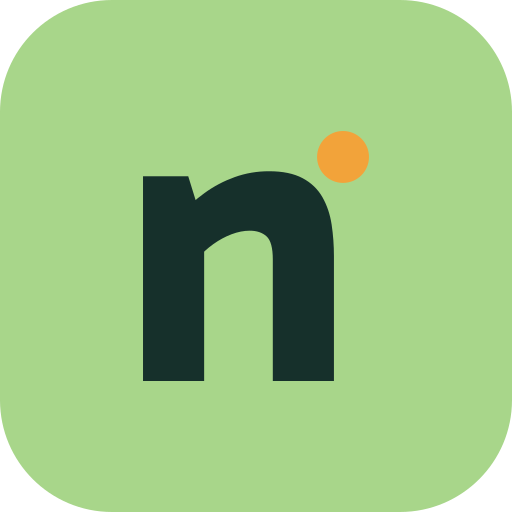
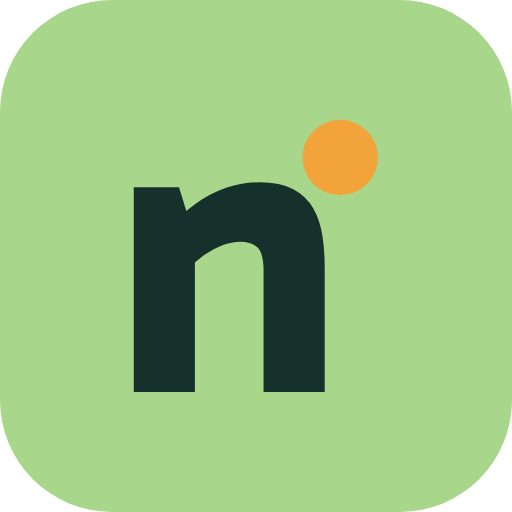
v23: sistema gráfico unificado (Dúo v2, mapa con la marca, punto flotante, isotipo B)

Changed region(s): [[0.4062, 0.2188, 0.75, 0.7812], [0.25, 0.3438, 0.4062, 0.7812]]

diff --git a/js/brand.js b/js/brand.js
@@ -1,8 +1,8 @@
-/* Marca Nubi (dirección C, Gabarito 700). Generado por design/nubi/tools/export-app.cjs: no editar a mano.
+/* Marca Nubi: Dúo, la mascota oficial (v2, 2026-11-25). GENERADO por tools/marca/generar-duo.mjs: no editar a mano.
    Los colores salen de variables CSS (--nb-*), así que sirve para tema claro y oscuro. */
 (function () {
   'use strict';
   window.Cerca = window.Cerca || {};
-  var M = {"feliz":"<svg xmlns=\"http://www.w3.org/2000/svg\" viewBox=\"0 0 200 200\" focusable=\"false\"><g transform=\"translate(0 0) rotate(0 96 112) translate(96 112) scale(1 1) translate(-96 -112)\"><circle cx=\"96\" cy=\"112\" r=\"64\" style=\"fill:var(--nb-body)\"/><circle cx=\"152\" cy=\"54\" r=\"28\" style=\"fill:var(--nb-lobe)\"/><circle cx=\"70\" cy=\"114\" r=\"7\" style=\"fill:var(--nb-face)\"/><circle cx=\"118\" cy=\"114\" r=\"7\" style=\"fill:var(--nb-face)\"/><path d=\"M82 137Q94 148.4 106 137\" fill=\"none\" stroke-width=\"4.2\" stroke-linecap=\"round\" style=\"stroke:var(--nb-face)\"/></g></svg>","curiosa":"<svg xmlns=\"http://www.w3.org/2000/svg\" viewBox=\"0 0 200 200\" focusable=\"false\"><g transform=\"translate(0 0) rotate(7 96 112) translate(96 112) scale(1 1) translate(-96 -112)\"><circle cx=\"96\" cy=\"112\" r=\"64\" style=\"fill:var(--nb-body)\"/><circle cx=\"152\" cy=\"54\" r=\"28\" style=\"fill:var(--nb-lobe)\"/><circle cx=\"73\" cy=\"111\" r=\"7\" style=\"fill:var(--nb-face)\"/><circle cx=\"121\" cy=\"111\" r=\"9.1\" style=\"fill:var(--nb-face)\"/><ellipse cx=\"99\" cy=\"138\" rx=\"3.84\" ry=\"5.04\" style=\"fill:var(--nb-face)\"/></g></svg>","pensando":"<svg xmlns=\"http://www.w3.org/2000/svg\" viewBox=\"0 0 200 200\" focusable=\"false\"><g transform=\"translate(0 0) rotate(-5 96 112) translate(96 112) scale(1 1) translate(-96 -112)\"><circle cx=\"96\" cy=\"112\" r=\"64\" style=\"fill:var(--nb-body)\"/><circle cx=\"152\" cy=\"54\" r=\"28\" style=\"fill:var(--nb-lobe)\"/><circle cx=\"67\" cy=\"110\" r=\"7\" style=\"fill:var(--nb-face)\"/><circle cx=\"115\" cy=\"110\" r=\"7\" style=\"fill:var(--nb-face)\"/><path d=\"M81.6 137H98.4\" stroke-width=\"4.2\" stroke-linecap=\"round\" style=\"stroke:var(--nb-face)\"/></g><circle cx=\"38\" cy=\"58\" r=\"4\" style=\"fill:var(--nb-muted)\"/><circle cx=\"50\" cy=\"46\" r=\"5.6\" style=\"fill:var(--nb-muted)\"/><circle cx=\"64\" cy=\"32\" r=\"7.5\" style=\"fill:var(--nb-muted)\"/></svg>","sorprendida":"<svg xmlns=\"http://www.w3.org/2000/svg\" viewBox=\"0 0 200 200\" focusable=\"false\"><g transform=\"translate(0 -4) rotate(0 96 112) translate(96 112) scale(1 1) translate(-96 -112)\"><circle cx=\"96\" cy=\"112\" r=\"64\" style=\"fill:var(--nb-body)\"/><circle cx=\"152\" cy=\"54\" r=\"28\" style=\"fill:var(--nb-lobe)\"/><circle cx=\"70\" cy=\"113\" r=\"9.450000000000001\" style=\"fill:var(--nb-face)\"/><circle cx=\"118\" cy=\"113\" r=\"9.450000000000001\" style=\"fill:var(--nb-face)\"/><ellipse cx=\"94\" cy=\"139\" rx=\"5.1\" ry=\"6\" style=\"fill:var(--nb-face)\"/></g></svg>","celebrando":"<svg xmlns=\"http://www.w3.org/2000/svg\" viewBox=\"0 0 200 200\" focusable=\"false\"><g transform=\"translate(0 -3) rotate(0 96 112) translate(96 112) scale(1 1) translate(-96 -112)\"><circle cx=\"96\" cy=\"112\" r=\"64\" style=\"fill:var(--nb-body)\"/><circle cx=\"152\" cy=\"54\" r=\"28\" style=\"fill:var(--nb-lobe)\"/><path d=\"M61.25 117.9375Q70 105.25 78.75 117.9375\" fill=\"none\" stroke-width=\"4.2\" stroke-linecap=\"round\" style=\"stroke:var(--nb-face)\"/><path d=\"M109.25 117.9375Q118 105.25 126.75 117.9375\" fill=\"none\" stroke-width=\"4.2\" stroke-linecap=\"round\" style=\"stroke:var(--nb-face)\"/><path d=\"M82 135Q94 157.4 106 135Z\" stroke-width=\"2\" stroke-linejoin=\"round\" style=\"fill:var(--nb-face);stroke:var(--nb-face)\"/></g><circle cx=\"28\" cy=\"48\" r=\"6\" style=\"fill:var(--nb-lobe)\"/><rect x=\"48\" y=\"32\" rx=\"3\" transform=\"rotate(20 54 38)\" style=\"fill:var(--nb-rose)\"/><circle cx=\"66\" cy=\"54\" r=\"5\" style=\"fill:var(--nb-sky)\"/></svg>","triste":"<svg xmlns=\"http://www.w3.org/2000/svg\" viewBox=\"0 0 200 200\" focusable=\"false\"><g transform=\"translate(0 4) rotate(-5 96 112) translate(96 112) scale(1 1) translate(-96 -112)\"><circle cx=\"96\" cy=\"112\" r=\"64\" style=\"fill:var(--nb-body)\"/><circle cx=\"152\" cy=\"54\" r=\"28\" style=\"fill:var(--nb-lobe)\"/><circle cx=\"70\" cy=\"116\" r=\"7\" style=\"fill:var(--nb-face)\"/><circle cx=\"118\" cy=\"116\" r=\"7\" style=\"fill:var(--nb-face)\"/><path d=\"M82 143Q94 131.6 106 143\" fill=\"none\" stroke-width=\"4.2\" stroke-linecap=\"round\" style=\"stroke:var(--nb-face)\"/></g></svg>","descansando":"<svg xmlns=\"http://www.w3.org/2000/svg\" viewBox=\"0 0 200 200\" focusable=\"false\"><g transform=\"translate(0 5) rotate(0 96 112) translate(96 112) scale(1 0.95) translate(-96 -112)\"><circle cx=\"96\" cy=\"112\" r=\"64\" style=\"fill:var(--nb-body)\"/><circle cx=\"152\" cy=\"54\" r=\"28\" style=\"fill:var(--nb-lobe)\"/><path d=\"M61.25 113.6875Q70 122 78.75 113.6875\" fill=\"none\" stroke-width=\"4.2\" stroke-linecap=\"round\" style=\"stroke:var(--nb-face)\"/><path d=\"M109.25 113.6875Q118 122 126.75 113.6875\" fill=\"none\" stroke-width=\"4.2\" stroke-linecap=\"round\" style=\"stroke:var(--nb-face)\"/><path d=\"M87.4 136Q94 142.27 100.6 136\" fill=\"none\" stroke-width=\"4.2\" stroke-linecap=\"round\" style=\"stroke:var(--nb-face)\"/></g><g fill=\"none\" stroke-width=\"3.6\" stroke-linecap=\"round\" stroke-linejoin=\"round\" style=\"stroke:var(--nb-muted)\"><path d=\"M36 52h12l-12 12h12\"/><path d=\"M58 34h9l-9 9h9\"/></g></svg>"};
+  var M = {"feliz":"<svg xmlns=\"http://www.w3.org/2000/svg\" viewBox=\"0 0 200 200\" focusable=\"false\"><g transform=\"translate(0 0) rotate(0 96 112)\"><circle cx=\"96\" cy=\"112\" r=\"64\" style=\"fill:var(--nb-body)\"/><circle cx=\"70\" cy=\"114\" r=\"7\" style=\"fill:var(--nb-face)\"/><circle cx=\"118\" cy=\"114\" r=\"7\" style=\"fill:var(--nb-face)\"/><path d=\"M82 137Q94 148.4 106 137\" fill=\"none\" stroke-width=\"4.2\" stroke-linecap=\"round\" style=\"stroke:var(--nb-face)\"/><g style=\"fill:var(--nb-rose)\" opacity=\"0.44\"><ellipse cx=\"58\" cy=\"130\" rx=\"9\" ry=\"5.5\"/><ellipse cx=\"130\" cy=\"130\" rx=\"9\" ry=\"5.5\"/></g></g><circle cx=\"152\" cy=\"54\" r=\"28\" style=\"fill:var(--nb-lobe)\"/><ellipse cx=\"143\" cy=\"44\" rx=\"8\" ry=\"5\" transform=\"rotate(-30 143 44)\" fill=\"#FFFFFF\" opacity=\".35\"/></svg>","curiosa":"<svg xmlns=\"http://www.w3.org/2000/svg\" viewBox=\"0 0 200 200\" focusable=\"false\"><g transform=\"translate(0 0) rotate(7 96 112)\"><circle cx=\"96\" cy=\"112\" r=\"64\" style=\"fill:var(--nb-body)\"/><circle cx=\"73\" cy=\"111\" r=\"7\" style=\"fill:var(--nb-face)\"/><circle cx=\"121\" cy=\"111\" r=\"8.6\" style=\"fill:var(--nb-face)\"/><ellipse cx=\"99\" cy=\"138\" rx=\"3.6\" ry=\"4.6\" style=\"fill:var(--nb-face)\"/><g style=\"fill:var(--nb-rose)\" opacity=\"0.28\"><ellipse cx=\"58\" cy=\"130\" rx=\"9\" ry=\"5.5\"/><ellipse cx=\"130\" cy=\"130\" rx=\"9\" ry=\"5.5\"/></g></g><circle cx=\"152\" cy=\"54\" r=\"28\" style=\"fill:var(--nb-lobe)\"/><ellipse cx=\"143\" cy=\"44\" rx=\"8\" ry=\"5\" transform=\"rotate(-30 143 44)\" fill=\"#FFFFFF\" opacity=\".35\"/></svg>","pensando":"<svg xmlns=\"http://www.w3.org/2000/svg\" viewBox=\"0 0 200 200\" focusable=\"false\"><g transform=\"translate(0 0) rotate(-5 96 112)\"><circle cx=\"96\" cy=\"112\" r=\"64\" style=\"fill:var(--nb-body)\"/><circle cx=\"67\" cy=\"110\" r=\"7\" style=\"fill:var(--nb-face)\"/><circle cx=\"115\" cy=\"110\" r=\"7\" style=\"fill:var(--nb-face)\"/><path d=\"M83 137Q90 139 97 137\" fill=\"none\" stroke-width=\"4.2\" stroke-linecap=\"round\" style=\"stroke:var(--nb-face)\"/></g><circle cx=\"152\" cy=\"54\" r=\"28\" style=\"fill:var(--nb-lobe)\"/><ellipse cx=\"143\" cy=\"44\" rx=\"8\" ry=\"5\" transform=\"rotate(-30 143 44)\" fill=\"#FFFFFF\" opacity=\".35\"/><circle cx=\"50\" cy=\"46\" r=\"5\" stroke-width=\"1.6\" style=\"fill:var(--nb-bubble);stroke:var(--nb-bubble-line)\"/><circle cx=\"37\" cy=\"30\" r=\"7\" stroke-width=\"1.6\" style=\"fill:var(--nb-bubble);stroke:var(--nb-bubble-line)\"/><circle cx=\"21\" cy=\"13\" r=\"9.5\" stroke-width=\"1.6\" style=\"fill:var(--nb-bubble);stroke:var(--nb-bubble-line)\"/></svg>","sorprendida":"<svg xmlns=\"http://www.w3.org/2000/svg\" viewBox=\"0 0 200 200\" focusable=\"false\"><g transform=\"translate(0 -4) rotate(0 96 112)\"><circle cx=\"96\" cy=\"112\" r=\"64\" style=\"fill:var(--nb-body)\"/><circle cx=\"70\" cy=\"113\" r=\"9\" style=\"fill:var(--nb-face)\"/><circle cx=\"118\" cy=\"113\" r=\"9\" style=\"fill:var(--nb-face)\"/><ellipse cx=\"94\" cy=\"139\" rx=\"4.6\" ry=\"5.6\" style=\"fill:var(--nb-face)\"/></g><circle cx=\"152\" cy=\"54\" r=\"28\" style=\"fill:var(--nb-lobe)\"/><ellipse cx=\"143\" cy=\"44\" rx=\"8\" ry=\"5\" transform=\"rotate(-30 143 44)\" fill=\"#FFFFFF\" opacity=\".35\"/></svg>","celebrando":"<svg xmlns=\"http://www.w3.org/2000/svg\" viewBox=\"0 0 200 200\" focusable=\"false\"><g transform=\"translate(0 -3) rotate(0 96 112)\"><circle cx=\"96\" cy=\"112\" r=\"64\" style=\"fill:var(--nb-body)\"/><path d=\"M61.25 118Q70 105.3 78.75 118\" fill=\"none\" stroke-width=\"4.2\" stroke-linecap=\"round\" style=\"stroke:var(--nb-face)\"/><path d=\"M109.25 118Q118 105.3 126.75 118\" fill=\"none\" stroke-width=\"4.2\" stroke-linecap=\"round\" style=\"stroke:var(--nb-face)\"/><path d=\"M82 135Q94 155 106 135Z\" stroke-width=\"2\" stroke-linejoin=\"round\" style=\"fill:var(--nb-face);stroke:var(--nb-face)\"/><g style=\"fill:var(--nb-rose)\" opacity=\"0.55\"><ellipse cx=\"58\" cy=\"130\" rx=\"9\" ry=\"5.5\"/><ellipse cx=\"130\" cy=\"130\" rx=\"9\" ry=\"5.5\"/></g></g><circle cx=\"152\" cy=\"54\" r=\"28\" style=\"fill:var(--nb-lobe)\"/><ellipse cx=\"143\" cy=\"44\" rx=\"8\" ry=\"5\" transform=\"rotate(-30 143 44)\" fill=\"#FFFFFF\" opacity=\".35\"/></svg>","triste":"<svg xmlns=\"http://www.w3.org/2000/svg\" viewBox=\"0 0 200 200\" focusable=\"false\"><g transform=\"translate(0 4) rotate(-5 96 112)\"><circle cx=\"96\" cy=\"112\" r=\"64\" style=\"fill:var(--nb-body)\"/><circle cx=\"70\" cy=\"116\" r=\"7\" style=\"fill:var(--nb-face)\"/><circle cx=\"118\" cy=\"116\" r=\"7\" style=\"fill:var(--nb-face)\"/><path d=\"M84 142Q94 134 104 142\" fill=\"none\" stroke-width=\"4.2\" stroke-linecap=\"round\" style=\"stroke:var(--nb-face)\"/></g><circle cx=\"152\" cy=\"54\" r=\"28\" style=\"fill:var(--nb-lobe)\"/><ellipse cx=\"143\" cy=\"44\" rx=\"8\" ry=\"5\" transform=\"rotate(-30 143 44)\" fill=\"#FFFFFF\" opacity=\".35\"/></svg>","descansando":"<svg xmlns=\"http://www.w3.org/2000/svg\" viewBox=\"0 0 200 200\" focusable=\"false\"><g transform=\"translate(0 5) rotate(0 96 112)\"><circle cx=\"96\" cy=\"112\" r=\"64\" style=\"fill:var(--nb-body)\"/><path d=\"M61.25 114Q70 122.3 78.75 114\" fill=\"none\" stroke-width=\"4.2\" stroke-linecap=\"round\" style=\"stroke:var(--nb-face)\"/><path d=\"M109.25 114Q118 122.3 126.75 114\" fill=\"none\" stroke-width=\"4.2\" stroke-linecap=\"round\" style=\"stroke:var(--nb-face)\"/><path d=\"M87.4 136Q94 142 100.6 136\" fill=\"none\" stroke-width=\"4.2\" stroke-linecap=\"round\" style=\"stroke:var(--nb-face)\"/><g style=\"fill:var(--nb-rose)\" opacity=\"0.39\"><ellipse cx=\"58\" cy=\"130\" rx=\"9\" ry=\"5.5\"/><ellipse cx=\"130\" cy=\"130\" rx=\"9\" ry=\"5.5\"/></g></g><circle cx=\"152\" cy=\"54\" r=\"28\" style=\"fill:var(--nb-lobe)\"/><ellipse cx=\"143\" cy=\"44\" rx=\"8\" ry=\"5\" transform=\"rotate(-30 143 44)\" fill=\"#FFFFFF\" opacity=\".35\"/></svg>"};
   Cerca.brand = { states: ["feliz","curiosa","pensando","sorprendida","celebrando","triste","descansando"], mascot: function (state) { return M[state] || M.feliz; } };
 })();

diff --git a/css/styles.css b/css/styles.css
@@ -12,9 +12,9 @@
   --strong: #16302B; --on-strong: #FFFFFF; --accent: #F2A33A; --on-accent: #16302B;
   --hover: #F1F7F3; --hover-chip: #DCEBE2; --sel-bg: #EAF4EE; --sel-ring: #16302B; --pin-glow: none;
   /* mapa esquemático */
-  --mb-land: #E3EFE7; --mb-water: #BFE0EE; --mb-park: #CDE6D4; --mb-road: #FFFFFF; --mb-road2: #FFFFFF; --mb-label: #3E5A52;
+  --mb-land: #E3EFE7; --mb-water: #BFE0EE; --mb-park: #CDE6D4; --mb-road: #FFFFFF; --mb-road2: #FFFFFF; --mb-label: #3E5A52; --mb-casing: #D3E4DA; --mb-building: #DCEBE2;
   /* marca Nubi (mascota Dúo y logotipo) */
-  --nb-body: #A8D68A; --nb-lobe: #F2A33A; --nb-face: #16302B; --nb-muted: #4A655D; --nb-rose: #F0A6B8; --nb-sky: #8CC6E3;
+  --nb-body: #A8D68A; --nb-lobe: #F2A33A; --nb-face: #16302B; --nb-muted: #4A655D; --nb-rose: #F0A6B8; --nb-sky: #8CC6E3; --nb-bubble: #FFFFFF; --nb-bubble-line: #CFE3EC;
   --geo: #1C6790; /* tu ubicación (Módulo 01): azul «cielo» de la paleta de perfiles */
   color-scheme: light;
 }
@@ -24,8 +24,8 @@
   --strong: #FFD47A; --on-strong: #0F1A22; --accent: #FFD47A; --on-accent: #0F1A22;
   --hover: #1F3340; --hover-chip: #223A47; --sel-bg: #1F3340; --sel-ring: #FFFFFF;
   --pin-glow: 0 0 0 6px rgba(255,212,122,.20), 0 0 24px rgba(255,212,122,.55);
-  --mb-land: #12202A; --mb-water: #14384A; --mb-park: #143028; --mb-road: #1F3643; --mb-road2: #1B303C; --mb-label: #7FA39A;
-  --nb-lobe: #FFD47A; --nb-face: #0F1A22; --nb-muted: #9DB3AD;
+  --mb-land: #12202A; --mb-water: #14384A; --mb-park: #143028; --mb-road: #1F3643; --mb-road2: #1B303C; --mb-label: #7FA39A; --mb-casing: #2A3E49; --mb-building: #17262F;
+  --nb-lobe: #FFD47A; --nb-face: #0F1A22; --nb-muted: #9DB3AD; --nb-bubble: #EAF2EF; --nb-bubble-line: #9DB3AD;
   --geo: #8CC6E3;
   color-scheme: dark;
 }
@@ -114,14 +114,19 @@ h1 { margin: 0 0 14px; font-family: var(--font-display); font-weight: 700; font-
 .maplibregl-ctrl-top-right { top: 4px; right: 4px; }
 /* Zoom del mapa con objetivo táctil de 40 px (MapLibre trae 29 px) */
 .mapwrap .maplibregl-ctrl-group button { width: 40px; height: 40px; }
-.pin { border: 0; background: transparent; padding: 8px; -webkit-tap-highlight-color: transparent; }
+/* Punto de lugar (marca: «punto flotante»). Una esfera con anillo blanco que flota sobre su sombra;
+   la sombra marca el lugar exacto (el marcador se ancla abajo). Nunca una gota con punta. */
+.pin { display: flex; flex-direction: column; align-items: center; gap: 4px; border: 0; background: transparent; padding: 8px 8px 4px; -webkit-tap-highlight-color: transparent; }
 .pin--svg { position: absolute; transform: translate(-50%, -100%); }
-.pin .drop { display: block; width: 30px; height: 30px; border-radius: 50% 50% 50% 0; background: var(--pin); border: 3px solid #fff; box-shadow: 0 3px 8px rgba(22,48,43,.28), var(--pin-glow); transform: rotate(-45deg); transition: transform .15s; }
-.pin.is-closed .drop { box-shadow: 0 3px 8px rgba(22,48,43,.28); }
-.pin.is-sel .drop { border-color: var(--sel-ring); transform: rotate(-45deg) scale(1.25); }
+.pin .drop { position: relative; display: block; width: 24px; height: 24px; border-radius: 50%; background: var(--pin); border: 3px solid #fff; box-shadow: 0 4px 10px rgba(22,48,43,.22), var(--pin-glow); transition: transform .2s cubic-bezier(.23, 1, .32, 1); }
+.pin .drop::before { content: ''; position: absolute; left: 3px; top: 3px; width: 7px; height: 4.5px; border-radius: 50%; background: #fff; opacity: .5; transform: rotate(-30deg); }
+.pin::after { content: ''; width: 12px; height: 4px; border-radius: 50%; background: rgba(22,48,43,.22); transition: transform .2s cubic-bezier(.23, 1, .32, 1); }
+.pin.is-closed .drop { box-shadow: 0 4px 10px rgba(22,48,43,.22); }
+.pin.is-sel .drop { border-color: var(--sel-ring); transform: translateY(-3px) scale(1.25); }
+.pin.is-sel::after { transform: scale(.8); }
 .pin.is-closed { opacity: .55; }
 .pin.is-closed.is-sel { opacity: 1; }
-@media (prefers-reduced-motion: reduce) { .pin .drop { transition: none; } }
+@media (prefers-reduced-motion: reduce) { .pin .drop, .pin::after { transition: none; } }
 .selcard { position: absolute; left: 16px; bottom: 16px; width: 340px; max-width: calc(100% - 32px); padding: 18px; background: var(--surface); border-radius: 24px; box-shadow: 0 8px 28px rgba(22,48,43,.16); display: flex; flex-direction: column; gap: 8px; z-index: 5; }
 .selcard h3 { margin: 0; font-family: var(--font-display); font-weight: 700; font-size: 21px; }
 .selcard p { margin: 0; }
@@ -190,7 +195,8 @@ h1 { margin: 0 0 14px; font-family: var(--font-display); font-weight: 700; font-
 .dock:focus-visible { outline: none; } .dock:focus-visible .dock-fig { outline: 3px solid var(--ink); outline-offset: 3px; }
 
 @media (max-width: 1024px) {
-  body { padding-bottom: calc(92px + env(safe-area-inset-bottom)); }
+  /* 92 px de barra + 30 px que la mascota sobresale por encima: el final de cada página queda visible */
+  body { padding-bottom: calc(124px + env(safe-area-inset-bottom)); }
   .nav { position: fixed; left: 0; right: 0; bottom: 0; z-index: 40; margin: 0; gap: 0; align-items: flex-end; padding: 6px 6px calc(6px + env(safe-area-inset-bottom)); }
   /* fondo con un hueco circular donde encaja la mascota (como el punto de Encaje) */
   .nav::before { content: ''; position: absolute; inset: 0; z-index: -1; background: linear-gradient(var(--line), var(--line)) top / 100% 1px no-repeat, var(--surface);
@@ -264,6 +270,7 @@ h1 { margin: 0 0 14px; font-family: var(--font-display); font-weight: 700; font-
 .notice { margin: 0; padding: 14px 18px; border-radius: var(--r-md); background: var(--moved-bg); color: var(--moved-fg); font-weight: 500; }
 .page-grid { display: grid; grid-template-columns: repeat(auto-fit, minmax(min(100%, 320px), 1fr)); gap: 16px; align-items: start; }
 .list--page { background: var(--surface); border-radius: var(--r-lg); padding: 8px; overflow: visible; }
+.list--page:empty { display: none; } /* sin guardados no se dibuja una barra vacía sobre el aviso */
 .page-empty { background: var(--surface); border-radius: var(--r-lg); padding: 28px; display: flex; flex-direction: column; gap: 10px; align-items: flex-start; }
 .page-empty p { margin: 0; }
 .checklist { margin: 0; padding-left: 20px; display: flex; flex-direction: column; gap: 6px; }

diff --git a/js/map.js b/js/map.js
@@ -82,6 +82,29 @@
     };
   }
 
+  /* Mapa con los colores de la marca (variables --mb-* del tema activo): calles blancas sobre menta,
+     agua y parques pastel, y sin los íconos de comercios del mapa base (no son negocios de Nubi y
+     compiten con nuestros puntos). Solo pinta capas existentes: si el estilo cambia, lo desconocido queda igual. */
+  function brandMap(map) {
+    var cs = getComputedStyle(document.documentElement), tok = function (k) { return cs.getPropertyValue('--mb-' + k).trim(); };
+    if (!tok('land')) { return; }
+    var set = function (id, prop, val) { try { map.setPaintProperty(id, prop, val); } catch (e) { /* capa sin esa propiedad */ } };
+    ((map.getStyle() || {}).layers || []).forEach(function (l) {
+      var sl = l['source-layer'] || '', id = l.id;
+      if (l.type === 'background') { set(id, 'background-color', tok('land')); return; }
+      if (sl === 'poi' || /shield/.test(id)) { try { map.setLayoutProperty(id, 'visibility', 'none'); } catch (e) { /* sin layout */ } return; }
+      if (l.type === 'fill' && sl === 'water') { set(id, 'fill-color', tok('water')); return; }
+      if (l.type === 'line' && sl === 'waterway') { set(id, 'line-color', tok('water')); return; }
+      if (l.type === 'fill' && (sl === 'park' || (sl === 'landcover' && /grass|wood|park|wetland/.test(id)))) { set(id, 'fill-color', tok('park')); set(id, 'fill-opacity', 1); return; }
+      if (l.type === 'fill' && sl === 'landuse') { set(id, 'fill-color', tok('land')); return; }
+      if (sl === 'building') { set(id, l.type === 'fill-extrusion' ? 'fill-extrusion-color' : 'fill-color', tok('building')); return; }
+      if (l.type === 'line' && sl === 'transportation' && !/rail|ferry|aeroway|path|pier/.test(id)) {
+        set(id, 'line-color', /casing/.test(id) ? tok('casing') : tok('road')); return;
+      }
+      if (l.type === 'symbol' && l.layout && l.layout['text-field']) { set(id, 'text-color', tok('label')); set(id, 'text-halo-color', tok('land')); }
+    });
+  }
+
   /* Estilo según el tema; ?style= fija un estilo y desactiva el cambio por tema. */
   function styleFor(c, theme) { return (!c.styleLocked && theme === 'dark' && c.mapStyleDark) ? c.mapStyleDark : c.mapStyleUrl; }
   function themeNow() { return document.documentElement.dataset.theme === 'dark' ? 'dark' : 'light'; }
@@ -121,7 +144,7 @@
     /* styleReady: el estilo terminó de cargar. No se usa map.isStyleLoaded(), que devuelve false
        mientras se descargan teselas (justo después de mover el mapa o cambiar de tema). */
     var user = null, userMarker = null, ACC = 'nubi-user-acc', styleReady = false;
-    map.on('style.load', function () { styleReady = true; });
+    map.on('style.load', function () { styleReady = true; brandMap(map); });
     function accColor() { return getComputedStyle(document.documentElement).getPropertyValue('--geo').trim() || '#1C6790'; }
     function drawAccuracy() {
       if (!user || !styleReady) { return; }

diff --git a/index.html b/index.html
@@ -7,8 +7,8 @@
 <meta name="description" content="Descubre negocios locales de Roldanillo. Versión de prueba.">
 <script>/* aplica el tema antes de pintar para evitar un destello */(function(){var t;try{t=localStorage.getItem('cerca.theme')}catch(e){}if(!t){t=window.matchMedia&&matchMedia('(prefers-color-scheme: dark)').matches?'dark':'light'}document.documentElement.dataset.theme=t})();</script>
 <link rel="stylesheet" href="https://fonts.googleapis.com/css2?family=Gabarito:wght@500;600;700&family=Figtree:wght@400;500;600&display=swap">
-<link rel="stylesheet" href="css/styles.css?v=22">
-<link rel="stylesheet" href="css/profiles.css?v=22">
+<link rel="stylesheet" href="css/styles.css?v=23">
+<link rel="stylesheet" href="css/profiles.css?v=23">
 <meta name="robots" content="noindex, nofollow">
 <meta name="theme-color" content="#16302B">
 <link rel="manifest" href="manifest.webmanifest">
@@ -255,23 +255,23 @@
   </form>
 </section>
 
-<script src="js/config.js?v=22"></script>
-<script src="js/data.js?v=22"></script>
-<script src="js/store.js?v=22"></script>
-<script src="js/map.js?v=22"></script>
-<script src="js/geo.js?v=22"></script>
-<script src="js/routing.js?v=22"></script>
-<script src="js/search.js?v=22"></script>
-<script src="js/brand.js?v=22"></script>
-<script src="js/profiles.js?v=22"></script>
-<script src="js/editor.js?v=22"></script>
-<script src="js/app.js?v=22"></script>
-<script src="js/assistant.js?v=22"></script>
-<script src="js/auth.js?v=22"></script>
-<script src="js/registro.js?v=22"></script>
-<script src="js/moderacion.js?v=22"></script>
-<script src="js/privacidad.js?v=22"></script>
-<script src="js/reportes.js?v=22"></script>
+<script src="js/config.js?v=23"></script>
+<script src="js/data.js?v=23"></script>
+<script src="js/store.js?v=23"></script>
+<script src="js/map.js?v=23"></script>
+<script src="js/geo.js?v=23"></script>
+<script src="js/routing.js?v=23"></script>
+<script src="js/search.js?v=23"></script>
+<script src="js/brand.js?v=23"></script>
+<script src="js/profiles.js?v=23"></script>
+<script src="js/editor.js?v=23"></script>
+<script src="js/app.js?v=23"></script>
+<script src="js/assistant.js?v=23"></script>
+<script src="js/auth.js?v=23"></script>
+<script src="js/registro.js?v=23"></script>
+<script src="js/moderacion.js?v=23"></script>
+<script src="js/privacidad.js?v=23"></script>
+<script src="js/reportes.js?v=23"></script>
 <script>/* PWA: registra el service worker si el navegador lo admite (solo https o localhost) */if('serviceWorker' in navigator){addEventListener('load',function(){navigator.serviceWorker.register('sw.js').catch(function(){})})}</script>
 </body>
 </html>

diff --git a/css/profiles.css b/css/profiles.css
@@ -32,7 +32,7 @@
 /* Acciones rápidas */
 .pf-actions { display: grid; grid-template-columns: repeat(5, minmax(0, 1fr)); gap: 8px; }
 .pf-act { display: flex; flex-direction: column; align-items: center; justify-content: center; gap: 6px; min-height: 74px; padding: 10px 4px; border: 0; border-radius: var(--r);
-  background: var(--pt); color: var(--pi); font-weight: 600; font-size: 13px; transition: transform .12s ease, background-color .15s; }
+  background: var(--pt); color: var(--pi); font-weight: 600; font-size: 13px; text-decoration: none; transition: transform .12s ease, background-color .15s; }
 .pf-act:hover { background: var(--pc); }
 .pf-act:active { transform: scale(.96); }
 .pf-act--main { background: var(--pa); color: var(--po); }
@@ -98,12 +98,13 @@
 .pf--oficio .pf-ico { background: var(--pa); color: var(--po); }
 
 /* --- Mercado: toldo de rayas con borde festoneado y precios como etiquetas --- */
-.pf--mercado { --r: 18px; --r-xl: 24px; }
+/* El toldo usa un tono medio del acento (no el acento pleno): se lee como toldo sin pesar más que el nombre. */
+.pf--mercado { --r: 18px; --r-xl: 24px; --aw: color-mix(in srgb, var(--pa) 62%, var(--ps)); }
 .pf--mercado .pf-cover { padding-top: calc(clamp(22px, 5vw, 44px) + 54px); }
 .pf--mercado .pf-cover::before { inset: 0 0 auto; height: 52px; z-index: 0;
-  background: radial-gradient(circle at 14px 0, var(--pa) 13px, transparent 14px) 0 38px / 56px 14px repeat-x,
+  background: radial-gradient(circle at 14px 0, var(--aw) 13px, transparent 14px) 0 38px / 56px 14px repeat-x,
               radial-gradient(circle at 14px 0, var(--ps) 13px, transparent 14px) 28px 38px / 56px 14px repeat-x,
-              repeating-linear-gradient(90deg, var(--pa) 0 28px, var(--ps) 28px 56px) 0 0 / 100% 38px no-repeat; }
+              repeating-linear-gradient(90deg, var(--aw) 0 28px, var(--ps) 28px 56px) 0 0 / 100% 38px no-repeat; }
 .pf--mercado .pf-art { top: auto; bottom: -30px; }
 .pf--mercado .pf-tiles { grid-template-columns: repeat(auto-fill, minmax(min(100%, 140px), 1fr)); }
 .pf--mercado .pf-tile { align-items: center; text-align: center; padding: 20px 12px 16px; }

diff --git a/sw.js b/sw.js
@@ -1,9 +1,9 @@
 /* Service worker mínimo de la PWA de prueba.
    Red primero para los archivos propios (siempre la versión publicada más reciente);
    la copia en caché solo se usa sin conexión. El mapa, las teselas y las fuentes externas no se guardan. */
-var CACHE = 'cerca-v22';
-var SHELL = ['./', 'index.html', 'css/styles.css?v=22', 'css/profiles.css?v=22', 'js/config.js?v=22', 'js/data.js?v=22', 'js/store.js?v=22', 'js/map.js?v=22', 'js/geo.js?v=22', 'js/routing.js?v=22', 'js/search.js?v=22', 'js/brand.js?v=22',
-  'js/profiles.js?v=22', 'js/editor.js?v=22', 'js/app.js?v=22', 'js/assistant.js?v=22', 'js/auth.js?v=22', 'js/registro.js?v=22', 'js/moderacion.js?v=22', 'js/privacidad.js?v=22', 'js/reportes.js?v=22','manifest.webmanifest', 'assets/brand/icon-192.png', 'assets/brand/icon-512.png', 'assets/brand/icon-maskable-192.png', 'assets/brand/icon-maskable-512.png', 'assets/brand/apple-touch-icon.png', 'assets/brand/favicon.svg'];
+var CACHE = 'cerca-v23';
+var SHELL = ['./', 'index.html', 'css/styles.css?v=23', 'css/profiles.css?v=23', 'js/config.js?v=23', 'js/data.js?v=23', 'js/store.js?v=23', 'js/map.js?v=23', 'js/geo.js?v=23', 'js/routing.js?v=23', 'js/search.js?v=23', 'js/brand.js?v=23',
+  'js/profiles.js?v=23', 'js/editor.js?v=23', 'js/app.js?v=23', 'js/assistant.js?v=23', 'js/auth.js?v=23', 'js/registro.js?v=23', 'js/moderacion.js?v=23', 'js/privacidad.js?v=23', 'js/reportes.js?v=23','manifest.webmanifest', 'assets/brand/icon-192.png', 'assets/brand/icon-512.png', 'assets/brand/icon-maskable-192.png', 'assets/brand/icon-maskable-512.png', 'assets/brand/apple-touch-icon.png', 'assets/brand/favicon.svg'];
 
 self.addEventListener('install', function (e) {
   e.waitUntil(caches.open(CACHE).then(function (c) { return c.addAll(SHELL); }).then(function () { return self.skipWaiting(); }));
